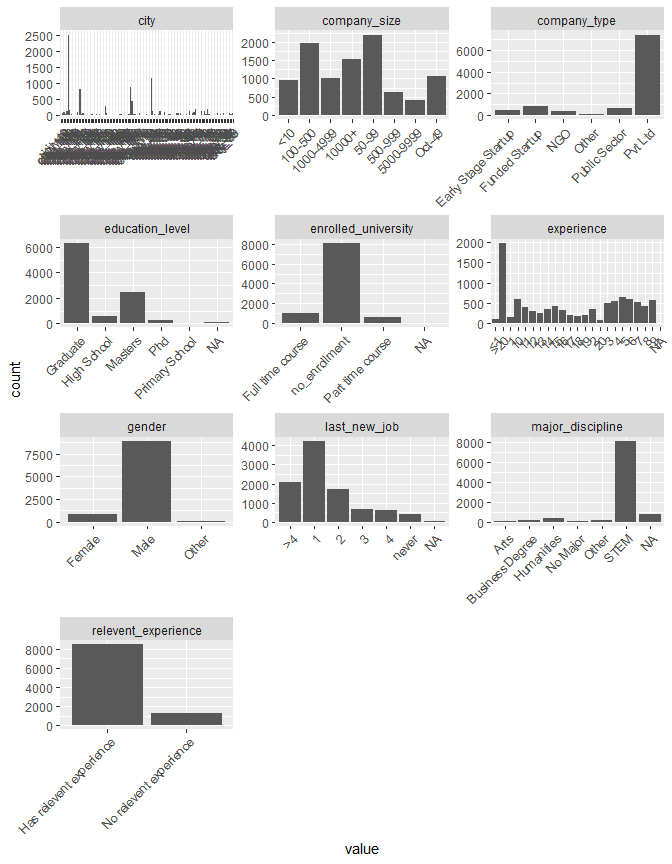
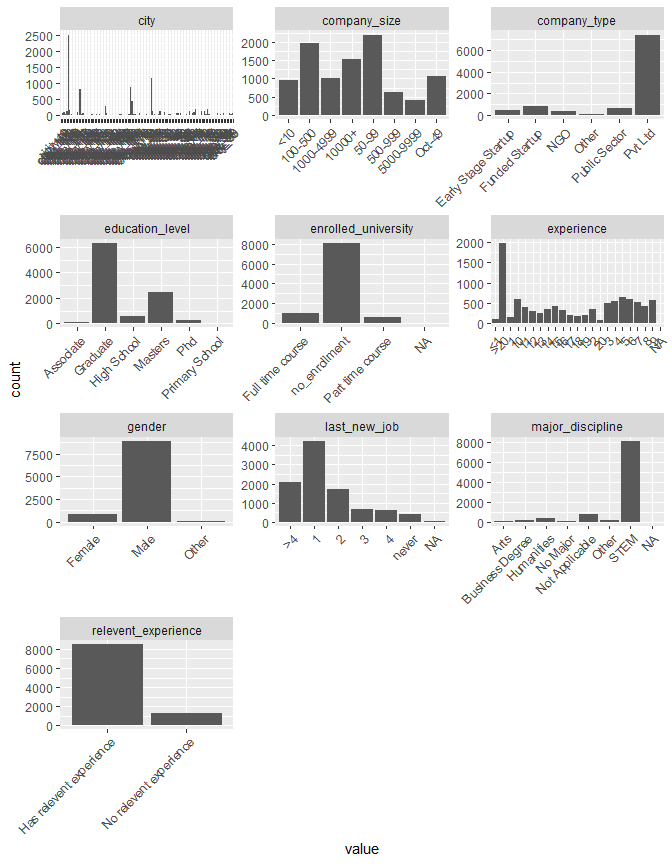
code fix

Changed region(s): [[0.0625, 0.2812, 0.3438, 0.4688], [0.6875, 0.5, 1.0, 0.7188]]

diff --git a/Scripts/final_project.md b/Scripts/final_project.md
@@ -427,6 +427,7 @@ The frequency table also shows that 460 samples are missing both ***education_le
 ```r
 dt_clean <- dt %>% 
   replace_na(list(education_level = "Associate"))
+
 dt_clean <- dt_clean %>% 
   mutate(
     major_discipline = case_when(
@@ -435,11 +436,11 @@ dt_clean <- dt_clean %>%
     )
          )
 ```
-This leaves with still 28 missing ***major_discipline***. Those missing values will be imputed during model building.
+
 
 
 ```r
-dt_clean <- dt %>% drop_na(company_size, company_type, gender)
+dt_clean <- dt_clean %>% drop_na(company_size, company_type, gender)
 ```
 
 After dropping missing values from 3 predictors with very high missing %, we are left with 9791 samples.
@@ -486,16 +487,6 @@ dt_clean %>% map_df(
  </thead>
 <tbody>
   <tr>
-   <td style="text-align:left;"> major_discipline </td>
-   <td style="text-align:right;"> 745 </td>
-   <td style="text-align:right;"> 7.6090287 </td>
-  </tr>
-  <tr>
-   <td style="text-align:left;"> education_level </td>
-   <td style="text-align:right;"> 79 </td>
-   <td style="text-align:right;"> 0.8068634 </td>
-  </tr>
-  <tr>
    <td style="text-align:left;"> enrolled_university </td>
    <td style="text-align:right;"> 72 </td>
    <td style="text-align:right;"> 0.7353692 </td>
@@ -504,6 +495,11 @@ dt_clean %>% map_df(
    <td style="text-align:left;"> last_new_job </td>
    <td style="text-align:right;"> 27 </td>
    <td style="text-align:right;"> 0.2757635 </td>
+  </tr>
+  <tr>
+   <td style="text-align:left;"> major_discipline </td>
+   <td style="text-align:right;"> 8 </td>
+   <td style="text-align:right;"> 0.0817077 </td>
   </tr>
   <tr>
    <td style="text-align:left;"> experience </td>
@@ -532,6 +528,11 @@ dt_clean %>% map_df(
   </tr>
   <tr>
    <td style="text-align:left;"> relevent_experience </td>
+   <td style="text-align:right;"> 0 </td>
+   <td style="text-align:right;"> 0.0000000 </td>
+  </tr>
+  <tr>
+   <td style="text-align:left;"> education_level </td>
    <td style="text-align:right;"> 0 </td>
    <td style="text-align:right;"> 0.0000000 </td>
   </tr>
@@ -589,13 +590,13 @@ dt_clean %>%
   </tr>
   <tr>
    <td style="text-align:left;"> 0 </td>
-   <td style="text-align:left;"> 8.9% (726) </td>
-   <td style="text-align:left;"> 91.1% (7472) </td>
+   <td style="text-align:left;"> 1.0% (80) </td>
+   <td style="text-align:left;"> 99.0% (8118) </td>
   </tr>
   <tr>
    <td style="text-align:left;"> 1 </td>
-   <td style="text-align:left;"> 6.9% (110) </td>
-   <td style="text-align:left;"> 93.1% (1483) </td>
+   <td style="text-align:left;"> 1.9% (30) </td>
+   <td style="text-align:left;"> 98.1% (1563) </td>
   </tr>
 </tbody>
 </table>
